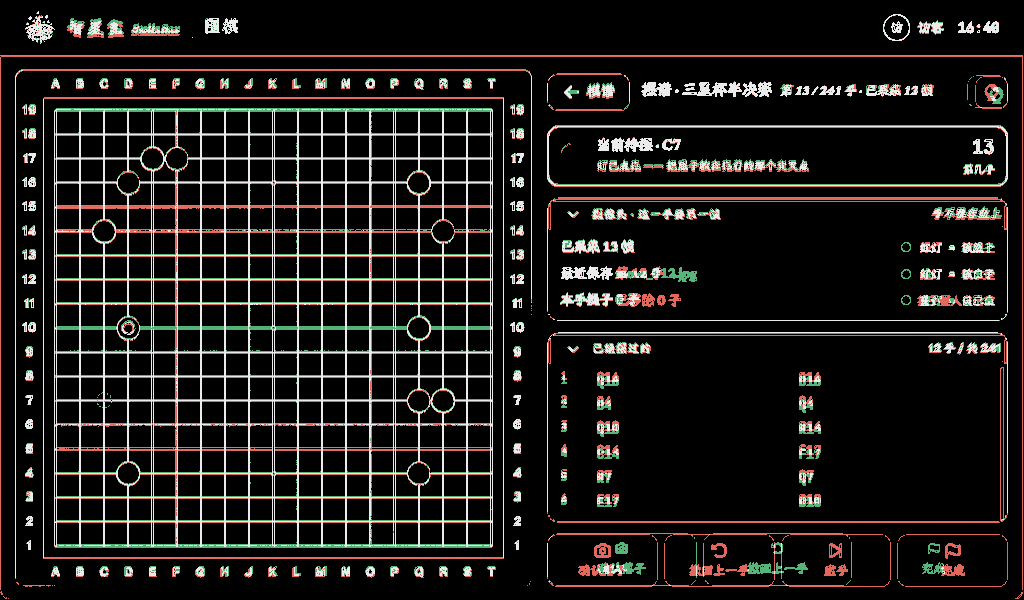
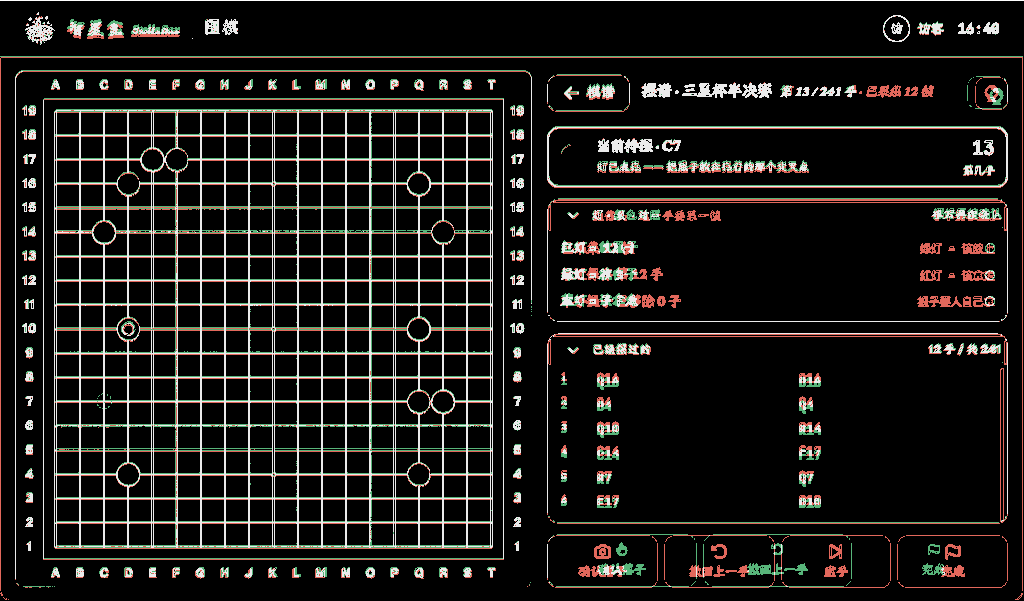
test(kiosk-go): 屏 17 四图改取上线态 —— 灯的颜色对照替掉摄像头那块,Fan 已确认(K4)
Claude-Session: https://claude.ai/code/session_01X4BiTprZTS6NMB4MkHaSgM

diff --git a/katrain/web/ui/tests/kiosk-screen-17-baipu.fourup.spec.ts b/katrain/web/ui/tests/kiosk-screen-17-baipu.fourup.spec.ts
@@ -32,6 +32,9 @@ const OUT = resolve(process.cwd(),
  *    相机那颗**删** —— 唯一现成的数据源 `vision/status` 在摆谱专用部署(有相机、有采集、
  *    无 vision 模型)下恒返回 `camera_connected:false`,挂上去就是在好机器上画红点。
  *  · 「完成」常驻但摆完之前灰着 + 写明还剩几手(常驻是为了那颗按 250 次的键位置不跳)。
+ *  · **2026-09-14 起取的是上线态**(Fan:拍照只为采 YOLO 训练数据,上线版不拍)。稿子那块
+ *    「摄像头 · 这一手要采一帧 / 已采集 12 帧 / 最近保存」整块换成「灯 · 颜色对照」三行;
+ *    页控条副标题不写帧数;「确认落子」图标是 hand-pointing。采集态不取四图(只在采集机上出现)。
  */
 
 /** 稿子那 12 手,换成后端 `steps[]`(row 从上往下数)。 */
@@ -76,6 +79,8 @@ const boot = async (page: import('@playwright/test').Page) => {
     json: { id: 1, username: '访客', rank: '5段', credits: 0 },
   }));
   // ⚠ **这条不是装饰,是这一屏的四图能不能自己站住的前提。**
+  // (2026-09-14 起只有采集态套守卫,但**上线态同样离不开这条桩**:上线态要等棋盘状态读到过才挂摆谱屏
+  //  —— 不桩就停在「正在检查棋盘状态」,`baipu-pcard` 照样永远不出现。)
   // `baipu/session/:source` 外面套着 `PhysicalBoardGuard`,它读 `GeometryContext`;
   // 而 `GeometryProvider` 只在**接口 404** 时才落到 `disabled`(那是「这台盒子没摄像头」
   // 这个**读到了的结论**),接口连不上时 phase 停在 `required` ⇒ 整屏被换成标定台,
@@ -93,10 +98,9 @@ const boot = async (page: import('@playwright/test').Page) => {
   await page.route('**/api/v1/led/**', (route) => route.fulfill({
     json: { ok: true, connected: true, shown_at: null, errors: [] },
   }));
-  // 采集在这台机器上是通的:回一份成功,好让「已采集 N 帧 / 最近保存」有真数。
-  await page.route('**/api/v1/baipu/capture', (route) => route.fulfill({
-    json: { path: '/data/baipu/s1/move_012.jpg', geometry_correction: null },
-  }));
+  // 取的是**上线态**(盒子默认)。钉死 `collect:false`:不让这张图随 :8001 上起的是不是采集机而变 ——
+  // 与上面 `geometry/status` 那条同一个判据(一张随后端在不在而变的实现图,不是这一屏的实现图)。
+  await page.route('**/api/v1/baipu/mode', (route) => route.fulfill({ json: { collect: false } }));
   await page.goto('/kiosk/baipu/session/s1');
   await page.waitForSelector('[data-testid="baipu-pcard"]');
 };
@@ -133,10 +137,10 @@ test('四图:摆谱 · 进行中 ←→ sample-go/shots/17-baipu.png', async ({ 
       + '**通栏状态条删了**:LED 那颗健康点由右上角「重新点灯」兼任(它就是这个故障的补救)，'
       + '相机那颗删——唯一数据源在摆谱专用部署下恒报 false，挂上去就是在好机器上画红点 · '
       + '「完成」常驻但摆完前灰着(常驻是为了那颗按 250 次的键位置不跳)· '
-      + '**「已采集 13 帧」比稿子多一帧,是稿子少算了**:数据契约写着 '
-      + '`frames.length = 1(开局空盘那帧) + 非 pass 落子数`，摆到第 13 手 = 1 + 12 = 13 · '
-      + '「最近保存」印的是**文件名**不是稿子那句「第 12 手」——盘前的人要拿它去磁盘上对，'
-      + '而手数在同一块账的第一行已经有了',
+      + '**上线态不拍照(Fan 2026-09-14:拍照只为采 YOLO 训练数据)**:'
+      + '稿子「摄像头 · 这一手要采一帧 / 已采集 12 帧 / 最近保存」整块换成「灯 · 颜色对照 / 摆好再按确认」，'
+      + '同样三行,右栏的账不变 · 页控条副标题只写「第 13 / 241 手」,不写帧数 · '
+      + '「确认落子」图标是 hand-pointing 不是相机——上线态画相机等于屏上说「这一下要拍照」',
   });
   console.log(`[fourup 17-baipu] both=${r.both} refOnly=${r.refOnly} implOnly=${r.implOnly}`);
 });
